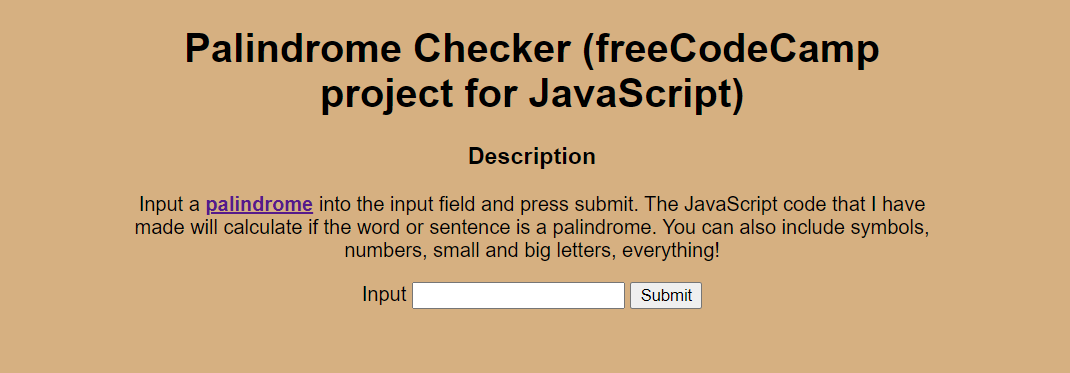
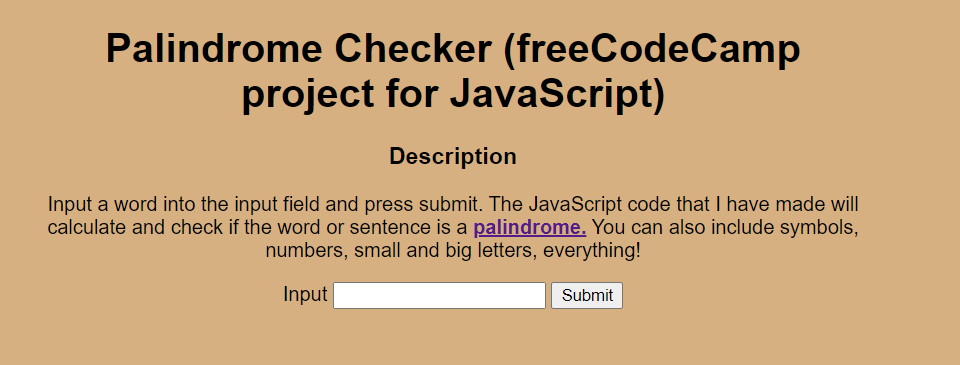
fixed description and uploaded new preview pictures

diff --git a/index.html b/index.html
@@ -8,8 +8,8 @@
         <h1>Palindrome Checker (freeCodeCamp project for JavaScript)</h1>
         <h3>Description</h3>
         <p> <!-- Add an anchor/link to wikipedia in the description-->
-            Input a <strong><a href="https://en.wikipedia.org/wiki/Palindrome">palindrome</a></strong> into the input field and press submit. The JavaScript code that I have 
-             made will calculate if the word or sentence is a palindrome. 
+            Input a word into the input field and press submit. The JavaScript code that I have 
+             made will calculate and check if the word or sentence is a <strong><a href="https://en.wikipedia.org/wiki/Palindrome">palindrome.</a></strong> 
              You can also include symbols, numbers, small and big letters, everything!
         </p>
         <form>
